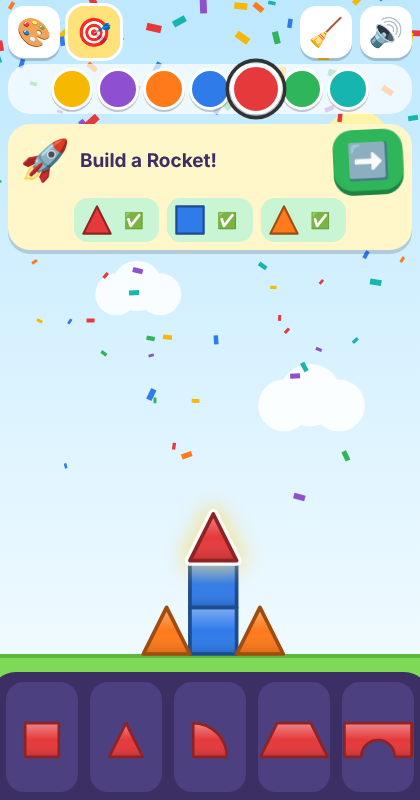
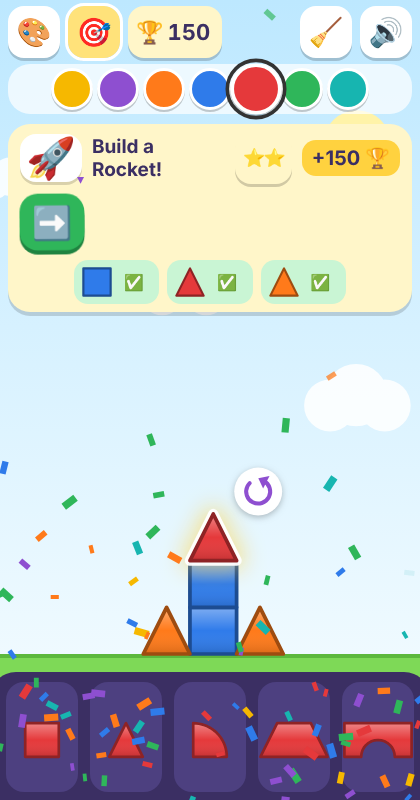
Score points for every finished challenge
Each finished build earns 10 points per piece, doubled on ⭐⭐, plus a
50-point bonus the first time that build is finished. A +N flies from
the card to a new 🏆 counter in the top bar, which counts up with a
ding. The score and the finished builds are saved in localStorage.

Claude-Session: https://claude.ai/code/session_01FXuWUj9o6fx8bcK98u3vgn

diff --git a/game.js b/game.js
@@ -17,7 +17,15 @@
     mode: 'free', challengeIdx: 0, won: false,
     drag: null, glow: null, particles: [], muted: false,
     level: loadLevel(), // 1 ⭐ outline of the build, 2 ⭐⭐ counts only
+    score: Number(load('magnet-blocks-score', 0)) || 0, lastGain: 0,
   };
+  function load(key, fallback) {
+    try { const v = JSON.parse(localStorage.getItem(key)); if (v !== null) return v; } catch (e) { /* private mode */ }
+    return fallback;
+  }
+  function save(key, value) {
+    try { localStorage.setItem(key, JSON.stringify(value)); } catch (e) { /* ignore */ }
+  }
   function loadLevel() {
     try { const v = Number(localStorage.getItem('magnet-blocks-difficulty')); if (v === 1 || v === 2) return v; } catch (e) { /* private mode */ }
     return 1;
@@ -275,7 +283,7 @@
   }
 
   // ----- choose what to build
-  const doneBuilds = new Set();
+  const doneBuilds = new Set([].concat(load('magnet-blocks-done', [])));
   function openPicker() {
     $('pickGrid').innerHTML = G.CHALLENGES.map((ch, i) =>
       `<button class="pick${i === state.challengeIdx ? ' current' : ''}${doneBuilds.has(ch.id) ? ' done' : ''}" ` +
@@ -361,11 +369,46 @@
     const prog = updateCard();
     if (prog && prog.done && !state.won) {
       state.won = true;
-      doneBuilds.add(G.CHALLENGES[state.challengeIdx].id);
+      const ch = G.CHALLENGES[state.challengeIdx];
+      const gain = G.challengeScore(ch, state.level, !doneBuilds.has(ch.id));
+      doneBuilds.add(ch.id);
+      save('magnet-blocks-done', [...doneBuilds]);
+      addScore(gain);
+      $('gain').textContent = `+${gain} 🏆`;
       $('card').classList.add('won');
       sfx.success();
       confetti();
     }
+  }
+
+  // ----- score: a "+N" flies from the card to the 🏆 counter, which counts up
+  let shownScore = state.score;
+  function syncScore() { $('scoreN').textContent = String(Math.round(shownScore)); }
+  function addScore(gain) {
+    state.score += gain; state.lastGain = gain;
+    save('magnet-blocks-score', state.score);
+    const from = $('card').getBoundingClientRect(), to = $('score').getBoundingClientRect();
+    const fly = document.createElement('div');
+    fly.className = 'fly'; fly.textContent = `+${gain}`;
+    fly.style.left = from.left + from.width / 2 + 'px'; fly.style.top = from.top + from.height / 2 + 'px';
+    document.body.appendChild(fly);
+    requestAnimationFrame(() => requestAnimationFrame(() => {
+      fly.style.transform = `translate(${to.left + to.width / 2 - from.left - from.width / 2}px, ${to.top - from.top - from.height / 2}px) scale(.6)`;
+      fly.style.opacity = '0.2';
+    }));
+    setTimeout(() => {
+      fly.remove();
+      const start = shownScore, t0 = performance.now();
+      const step = (now) => {
+        const k = Math.min(1, (now - t0) / 700);
+        shownScore = start + (state.score - start) * k;
+        syncScore();
+        if (k < 1) requestAnimationFrame(step);
+      };
+      requestAnimationFrame(step);
+      $('score').classList.remove('bump'); void $('score').offsetWidth; $('score').classList.add('bump');
+      tone(1568, 0, 0.12, 'sine', 0.2); tone(2093, 0.08, 0.18, 'sine', 0.2); // "ding-ding"
+    }, 900);
   }
 
   // ---------------------------------------------------------------- rendering
@@ -543,6 +586,7 @@
   document.addEventListener('contextmenu', (e) => e.preventDefault());
   syncPalette();
   syncLevel();
+  syncScore();
   layout();
   requestAnimationFrame(frame);
 

diff --git a/index.html b/index.html
@@ -73,6 +73,16 @@
   .pick.done::after { content: '✅'; position: absolute; top: 2px; right: 4px; font-size: 18px; }
   .pick:active { transform: scale(.95); }
   #pickClose { position: absolute; top: -18px; right: -10px; width: 48px; height: 48px; font-size: 22px; }
+  #score { display: flex; align-items: center; gap: 4px; height: var(--btn); padding: 0 12px 0 8px;
+    border-radius: 16px; background: #fff6c9; box-shadow: 0 3px 0 rgba(0,0,0,.18);
+    font-size: 22px; font-weight: 700; color: #3b2f63; font-variant-numeric: tabular-nums; }
+  #score.bump { animation: bump .5s; }
+  #gain { display: none; padding: 6px 10px; border-radius: 14px; background: #ffd23f; color: #3b2f63;
+    font-size: 20px; font-weight: 700; white-space: nowrap; }
+  #card.won #gain { display: block; animation: bump .6s; }
+  .fly { position: fixed; z-index: 5; pointer-events: none; font-size: 26px; font-weight: 700; color: #3b2f63;
+    text-shadow: 0 2px 0 #fff; transition: transform .9s cubic-bezier(.5,-0.3,.7,1), opacity .9s; }
+  @keyframes bump { 40% { transform: scale(1.3); } }
   @keyframes wiggle { 50% { transform: scale(1.1) rotate(-3deg); } }
 </style>
 </head>
@@ -83,6 +93,7 @@
   <div class="group">
     <button id="btnFree" class="tool on" aria-label="Free build" title="Free build">🎨</button>
     <button id="btnChallenge" class="tool" aria-label="Challenges" title="Challenges">🎯</button>
+    <div id="score" role="status" aria-label="Score" title="Score">🏆<span id="scoreN">0</span></div>
   </div>
   <div id="palette" role="group" aria-label="Colors"></div>
   <div class="group">
@@ -96,6 +107,7 @@
   <h1 id="cardTitle"></h1>
   <div id="chips"></div>
   <button id="level" class="tool" title="Difficulty"></button>
+  <div id="gain"></div>
   <button id="next" aria-label="Next challenge">➡</button>
 </div>
 

diff --git a/tests/smoke.js b/tests/smoke.js
@@ -135,7 +135,10 @@ const near = (a, b, eps = 0.02) => assert.ok(Math.abs(a - b) <= eps, `expected $
     await color('#e5393b');                              // ...recolour it red (still selected)
     assert.equal(await page.evaluate(() => window.magnetGame.state.won), true);
     await page.waitForSelector('#card.won #next');
-    await page.waitForTimeout(400);
+    // first rocket on ⭐⭐: 5 pieces × 10 × 2 + 50 first-time bonus
+    assert.equal(await page.evaluate(() => window.magnetGame.state.score), 150);
+    assert.equal(await page.textContent('#gain'), '+150 🏆');
+    await page.waitForFunction(() => document.getElementById('scoreN').textContent === '150');
     await shot('03-won');
     await page.click('#next', { force: true }); // it wiggles
     assert.equal((await pieces()).length, 0);
@@ -171,6 +174,15 @@ const near = (a, b, eps = 0.02) => assert.ok(Math.abs(a - b) <= eps, `expected $
     await page.click('#cardEmoji'); await page.click('#pickClose');
     await page.waitForSelector('#picker', { state: 'hidden' });
     assert.match(await page.textContent('#cardTitle'), /Horse/);
+
+    // 8d. the score and finished builds survive a reload
+    await page.reload();
+    await page.waitForFunction(() => window.magnetGame);
+    assert.equal(await page.textContent('#scoreN'), '150');
+    await page.click('#btnChallenge');
+    await page.waitForSelector('#picker.show');
+    assert.equal(await page.locator('.pick.done').count(), 1);
+    await page.click('#pickClose');
 
     // 9. landscape layout still fits: ground is visible and snapping works
     await page.setViewportSize({ width: 900, height: 480 });

diff --git a/tests/geometry.test.js b/tests/geometry.test.js
@@ -175,3 +175,14 @@ test('needs are derived from the layout', () => {
   assert.deepEqual(G.needFromLayout([['square', 'red'], ['triangle', 'red'], ['square', 'red']]),
     [{ shape: 'square', color: 'red', n: 2 }, { shape: 'triangle', color: 'red', n: 1 }]);
 });
+
+test('challenge score: 10 per piece, doubled on ⭐⭐, bonus the first time', () => {
+  const rocket = G.CHALLENGES.find((c) => c.id === 'rocket'); // 5 pieces
+  assert.equal(G.challengeScore(rocket, 1, false), 50);
+  assert.equal(G.challengeScore(rocket, 2, false), 100);
+  assert.equal(G.challengeScore(rocket, 1, true), 100);
+  assert.equal(G.challengeScore(rocket, 2, true), 150);
+  // bigger builds are worth more
+  const castle = G.CHALLENGES.find((c) => c.id === 'castle'); // 7 pieces
+  assert.ok(G.challengeScore(castle, 1, false) > G.challengeScore(rocket, 1, false));
+});

diff --git a/geometry.js b/geometry.js
@@ -386,10 +386,19 @@
     return { have: best, done };
   }
 
+  // Points for finishing a build: 10 per piece, doubled on ⭐⭐, plus a bonus
+  // the first time that build is ever finished.
+  const POINTS_PER_PIECE = 10;
+  const FIRST_TIME_BONUS = 50;
+  function challengeScore(challenge, level, firstTime) {
+    return challenge.layout.length * POINTS_PER_PIECE * (level === 2 ? 2 : 1) + (firstTime ? FIRST_TIME_BONUS : 0);
+  }
+
   return {
     EPS, SNAP_THRESHOLD, CONTACT_EPS, SHAPES, SHAPE_ORDER, COLORS, COLOR_HEX, CHALLENGES, needFromLayout,
     targetSlots,
     rotate, toWorld, worldPolygon, worldSnapPoints, pieceBounds, polygonArea,
     snapPiece, hitTest, pointInPolygon, touching, components, countShapes, challengeProgress,
+    POINTS_PER_PIECE, FIRST_TIME_BONUS, challengeScore,
   };
 });

diff --git a/README.md b/README.md
@@ -7,7 +7,8 @@ Build anything you like, or build one of the 10 creations pictured on the box.
 ![Challenge complete](docs/challenge-won.png)
 
 It is made for tablets and phones first and works with a mouse too. Instead of words it
-uses emoji, big touch targets and happy sounds. It has no timers, scores or fail states.
+uses emoji, big touch targets and happy sounds. It has no timers or fail states. Finishing a
+build earns 🏆 points, and that's the only score.
 
 ## How to play
 
@@ -22,6 +23,7 @@ uses emoji, big touch targets and happy sounds. It has no timers, scores or fail
 | Tap a shape in the tray | A block drops into the middle of the play area |
 | 🧹 | Clears everything |
 | 🎨 / 🎯 | Free build / challenges. 🎯 opens a grid where you choose what to build. Tap the big emoji on the card to choose again; finished builds get a ✅ |
+| 🏆 | Your score. It goes up every time you finish a build and is remembered on this device |
 | 🔊 | Sound on/off |
 
 **Challenges 🎯:** a card says what to build, for example "Build a Rocket! 🚀". It shows
@@ -37,6 +39,18 @@ on the card sets the difficulty, and the choice is remembered:
 When your blocks form **one connected, snapped structure** with at least those pieces
 **in those colours**, there's confetti and a little tune, and a ➡ button moves on.
 Blocks lying elsewhere on the board don't count against you.
+
+**Score 🏆:** each finished build gives points. A "+N" flies from the card to the 🏆
+counter, which counts up with a little *ding*:
+
+| | Points |
+| --- | --- |
+| Each piece in the build | 10 |
+| On ⭐⭐ | ×2 |
+| First time you finish that build | +50 bonus |
+
+So the Rocket (5 pieces) is worth 50 on ⭐, or 150 the first time on ⭐⭐. The score and the
+✅ finished builds are saved in `localStorage`, so they survive a reload.
 
 ![The 10 builds](docs/builds.png)
 
@@ -103,7 +117,8 @@ SHOTS=out npm run test:e2e   # also saves screenshots to ./out
 The smoke test checks ground snapping, sideways and stacked magnet snapping,
 tap-to-rotate, the ↺ rotate button, choosing a build from the picker, recoloring, deleting by dragging into the tray, the broom, completing
 the rocket challenge in the right colours (including fixing a wrong-coloured piece),
-the outline on ⭐ (pieces aren't pulled into it), and the landscape layout. It fails on any page error.
+the outline on ⭐ (pieces aren't pulled into it), the score for a finished build and that it
+survives a reload, and the landscape layout. It fails on any page error.
 
 ## Roadmap
 
